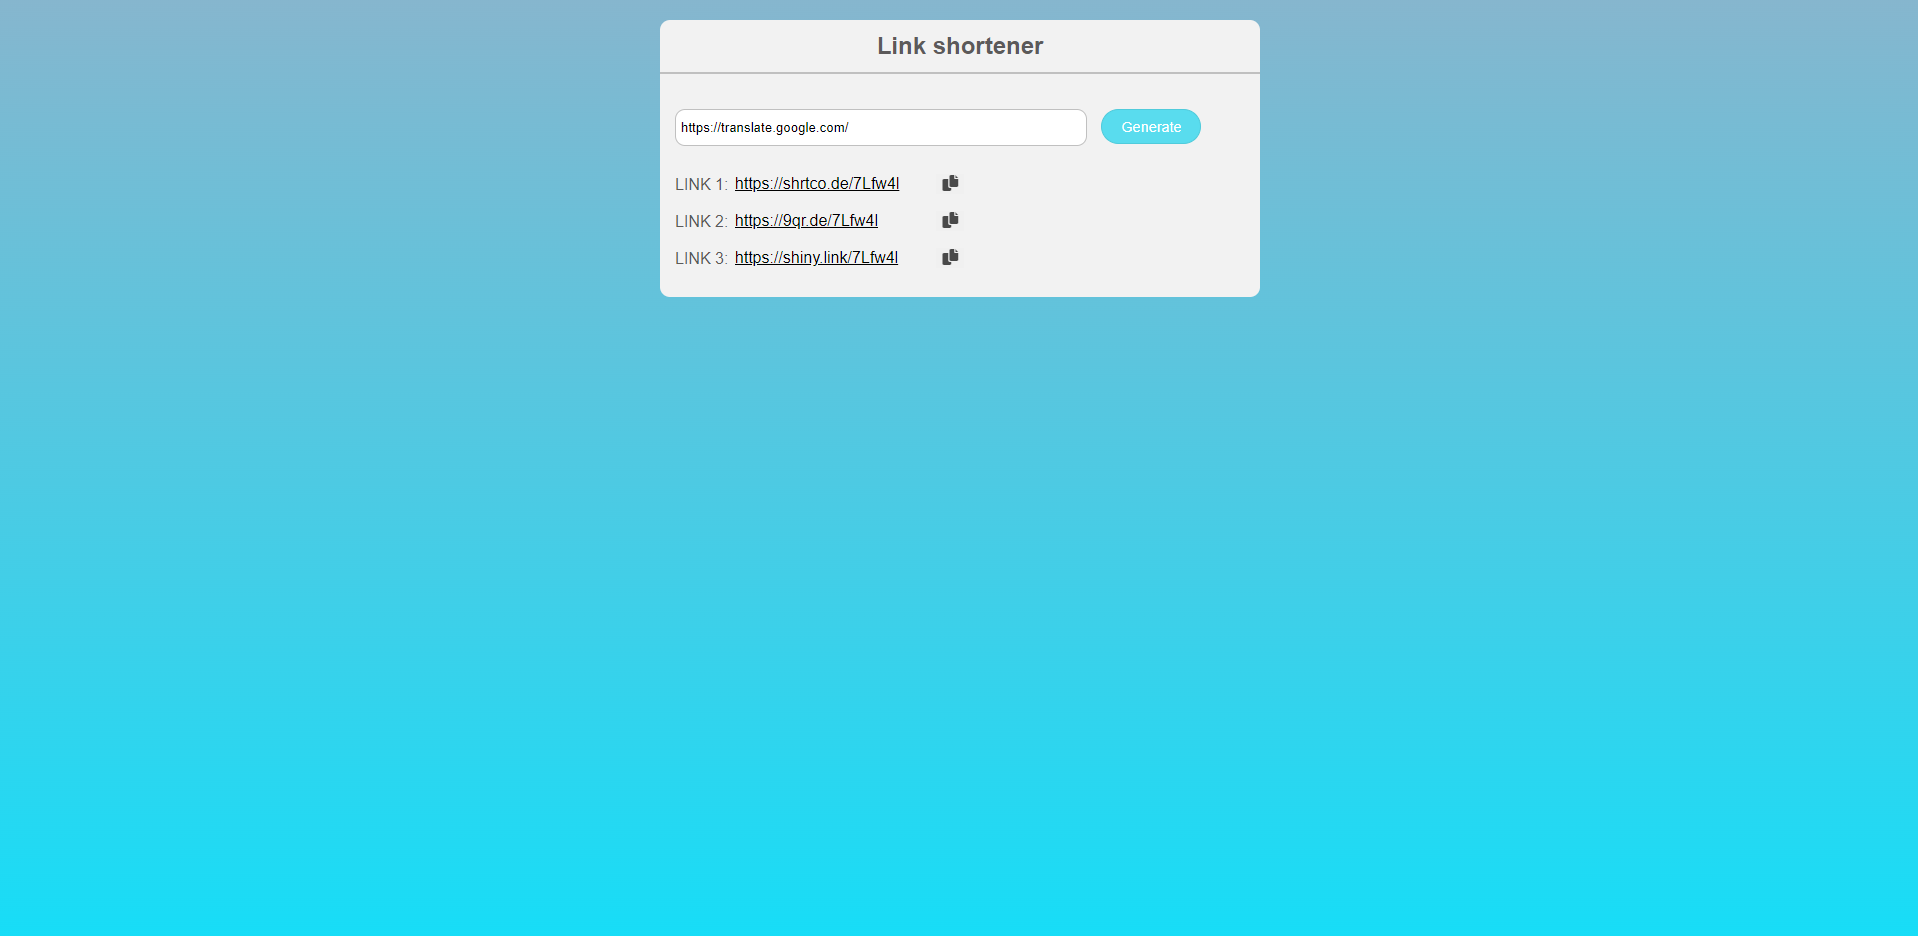
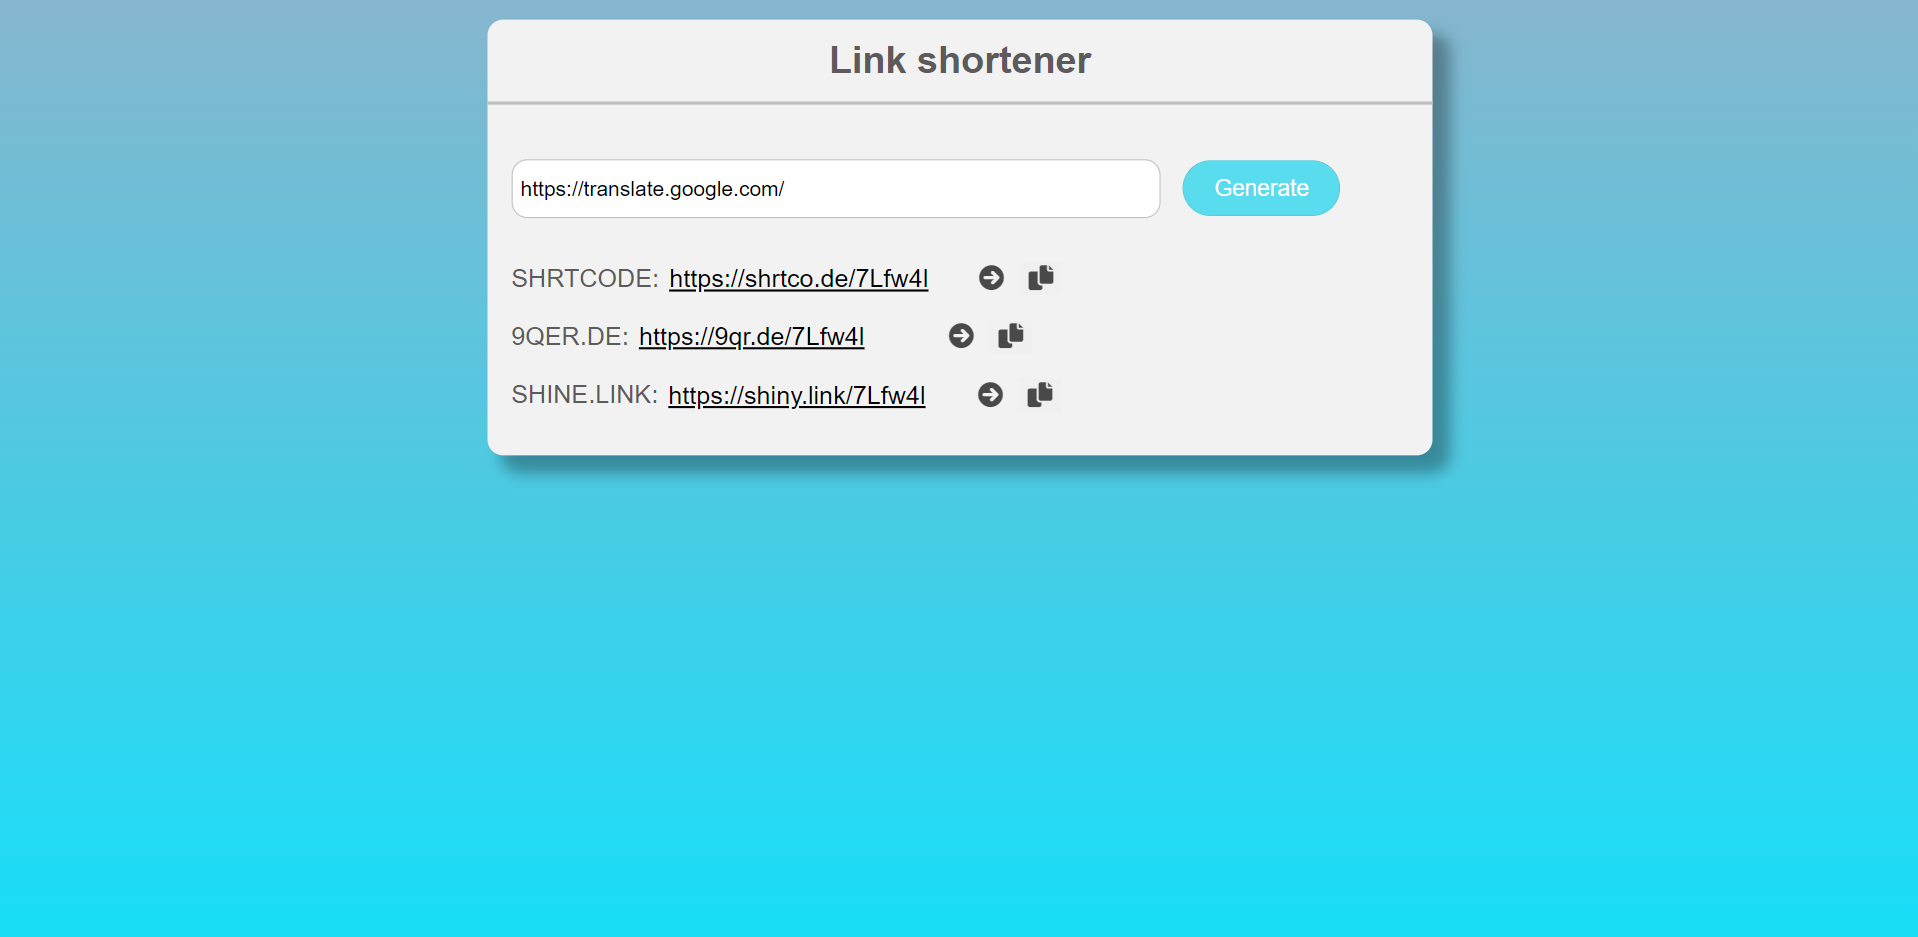
some changes

Changed region(s): [[0.2461, 0.0, 0.769, 0.5267], [0.4922, 0.1859, 0.5229, 0.2479]]

diff --git a/project3.html b/project3.html
@@ -7,7 +7,7 @@
     <meta name="viewport" content="width=device-width, initial-scale=1.0">
     <title>Link shortener</title>
     <link rel="stylesheet" href="style-project3.css">
-    <link rel="shortcut icon" href="" type="image/x-icon">
+    <link rel="shortcut icon" href="makeItShorter.png" type="image/x-icon">
     <link rel="stylesheet" href="https://cdnjs.cloudflare.com/ajax/libs/font-awesome/6.1.1/css/all.min.css"
         integrity="sha512-KfkfwYDsLkIlwQp6LFnl8zNdLGxu9YAA1QvwINks4PhcElQSvqcyVLLD9aMhXd13uQjoXtEKNosOWaZqXgel0g=="
         crossorigin="anonymous" referrerpolicy="no-referrer" />
@@ -21,11 +21,11 @@
                 <input type="text" id="source-link" placeholder="Paste link here:">
                 <button id="generate-button">Generate</button>
                 <!-- <div class="link">Code: <span id="code"></span></div> -->
-                <div id="link" class="link">LINK 1: <span id="full-short-link"></span> <button onclick="copyFunction()" id="copy"><i
+                <div id="link" class="link">SHRTCODE: <span id="full-short-link"></span> <button onclick="copyFunction()" id="copy"><i
                             class="fas fa-copy"></i></button></div>
-                <div id="link2" class="link">LINK 2: <span id="full-short-link2"></span> <button onclick="copyFunction2()" id="copy2"><i
+                <div id="link2" class="link">9QER.DE: <span id="full-short-link2"></span> <button onclick="copyFunction2()" id="copy2"><i
                             class="fas fa-copy"></i></button></div>
-                <div id="link3" class="link">LINK 3: <span id="full-short-link3"></span> <button onclick="copyFunction3()" id="copy3"><i
+                <div id="link3" class="link">SHINE.LINK: <span id="full-short-link3"></span> <button onclick="copyFunction3()" id="copy3"><i
                             class="fas fa-copy"></i></button> </div>
             </div>
         </div>
@@ -57,7 +57,8 @@
             document.getElementById("link2").style.display = "block";
             document.getElementById("link3").style.display = "block";
             // document.getElementById(id).innerHTML = "<a href='" + shortUrl + "'>" + shortUrl + "</a>";
-            document.getElementById(id).innerHTML = "<input id='myInput' readonly value='" + shortUrl + "'>";
+            // document.getElementById(id).innerHTML = "<input id='myInput' readonly value='" + shortUrl + "'>";
+            document.getElementById(id).innerHTML = "<input id='myInput' readonly value='" + shortUrl + "'><a class='go-to-page' target='_blank' href='" + shortUrl + "'><i class='fa-solid fa-circle-arrow-right'></i></a>";
         }
 
         function copyFunction() {

diff --git a/style-project3.css b/style-project3.css
@@ -101,6 +101,16 @@ a:hover {
     opacity: 1;
 }
 
+.go-to-page {
+    border: none;
+    font-size: 1rem;
+    opacity: 0.7;
+}
+
+.go-to-page:hover {
+    opacity: 1;
+    font-size: 1.1rem;
+}
 #full-short-link input, #full-short-link2 input, #full-short-link3 input {
     outline: none ;
     border: none ;
@@ -140,5 +150,15 @@ input::selection {
     }
     #generate-button {
         width: 20%
+    }
+}
+
+@media (max-width:550px) {
+    #source-link {
+    width: 60%;
+    }
+    #generate-button {
+        width: 30%;
+        font-size: 0.9rem;
     }
 }
